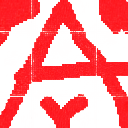
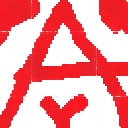
removed fourier shit

diff --git a/preprocessing.py b/preprocessing.py
@@ -5,6 +5,8 @@ import numpy as np
 import torch
 from PIL import Image
 from torch.profiler import profile, record_function, ProfilerActivity
+from torch.utils.data import DataLoader, TensorDataset
+
 
 def load_image(path: os.PathLike): return np.array(Image.open(path).convert("RGB"), dtype=np.float32) / 255.0
 
@@ -44,6 +46,10 @@ def reconstruct_image(model, device, height, width, z = 1, bench = False, name =
     h, w = z*height, z*width
     y_coords, x_coords = np.meshgrid(np.linspace(0, 1, h), np.linspace(0, 1, w))
     test_indices = np.stack([y_coords.flatten(), x_coords.flatten()], axis=1)
+    dataset = TensorDataset(torch.from_numpy(test_indices).float())
+    is_cuda = (str(device) == 'cuda')
+    inference_loader = DataLoader(dataset, batch_size=max(256, 4096*2 * is_cuda), shuffle=False, num_workers=12 * is_cuda,
+                        pin_memory=is_cuda)
     with torch.no_grad():
         vertex_uvs = torch.from_numpy(test_indices).float().to(device)
         if bench:
@@ -53,10 +59,17 @@ def reconstruct_image(model, device, height, width, z = 1, bench = False, name =
                     predicted_colors = model(vertex_uvs)
 
             print(prof.key_averages().table(sort_by="cuda_time_total", row_limit=10))
-        else: predicted_colors = model(vertex_uvs)
+        else:
+            all_predictions = []
+            for batch in inference_loader:
+                # DataLoader wraps single-tensor datasets in a list like [batch_x]
+                batch_x = batch[0].to(device)
 
+                preds = model(batch_x)
+                all_predictions.append(preds.cpu())
 
-        predicted_colors = predicted_colors.cpu().numpy().reshape(h, w, 3)*255
+        final_output = torch.cat(all_predictions, dim=0)
+        predicted_colors = final_output.cpu().numpy().reshape(h, w, 3)*255
         predicted_colors = predicted_colors.astype(dtype=np.uint8)
         Image.fromarray(predicted_colors).save(f"reconstructed/{name}{z}x.png")
         print(f"✓ Reconstructed {name} with {z}x zoom saved: {name}{z}x.png")

diff --git a/model_testing.py b/model_testing.py
@@ -20,18 +20,18 @@ testable = {"fmn" : models.NeuralDetailMapper, "mlp" : models.ColorMLP}
 if __name__ == "__main__":
     args = parser.parse_args()
     if not args.img: args.img = "data/oa.png"
-    if not args.nn: args.nn = "mlp"
+    if not args.nn: args.nn = "fmn"
     img_path: os.PathLike = pth.Path(args.img)
     og, test_indices = prep.image_init(img_path)
     og = prep.load_image(img_path)
     all_X, all_y = [], []
-    for scale in [0.25]:
+    for scale in [1]:
         X, y = prep.upsample(og, scale)
         all_X.append(X)
         all_y.append(y)
     X = np.vstack(all_X)
     y = np.vstack(all_y)
-    X = prep.fourier_encoding(X)
+    # X = prep.fourier_encoding(X)
 
     device = torch.device('cuda' if torch.cuda.is_available() else 'cpu')
     # device = torch.device('cpu')
@@ -56,7 +56,7 @@ if __name__ == "__main__":
     # with profile(activities=[ProfilerActivity.CPU, ProfilerActivity.CUDA],
     #                  schedule=torch.profiler.schedule(wait=1, warmup=1, active=6),
     #                  record_shapes=True, profile_memory=True) as prof:
-    for epoch in range(100):
+    for epoch in range(50):
         epoch_start = time.time()
         for batch_inputs, batch_targets in loader:
             # prof.step()
@@ -77,7 +77,7 @@ if __name__ == "__main__":
     # print(prof.key_averages().table(sort_by="cuda_time_total", row_limit=10))
     h, w = og.shape[:2]
     file_name = img_path.stem
-    prep.reconstruct_fourier(model, device, h, w, 1, name=file_name)
-    prep.reconstruct_fourier(model, device, h, w, 2, name=file_name)
-    # prep.reconstruct_image(model, device, h, w, name=file_name)
-    # prep.reconstruct_image(model, device, h, w, 2, bench=False, name=file_name)
+    # prep.reconstruct_fourier(model, device, h, w, 1, name=file_name)
+    # prep.reconstruct_fourier(model, device, h, w, 2, name=file_name)
+    prep.reconstruct_image(model, device, h, w, name=file_name)
+    prep.reconstruct_image(model, device, h, w, 4, bench=False, name=file_name)
